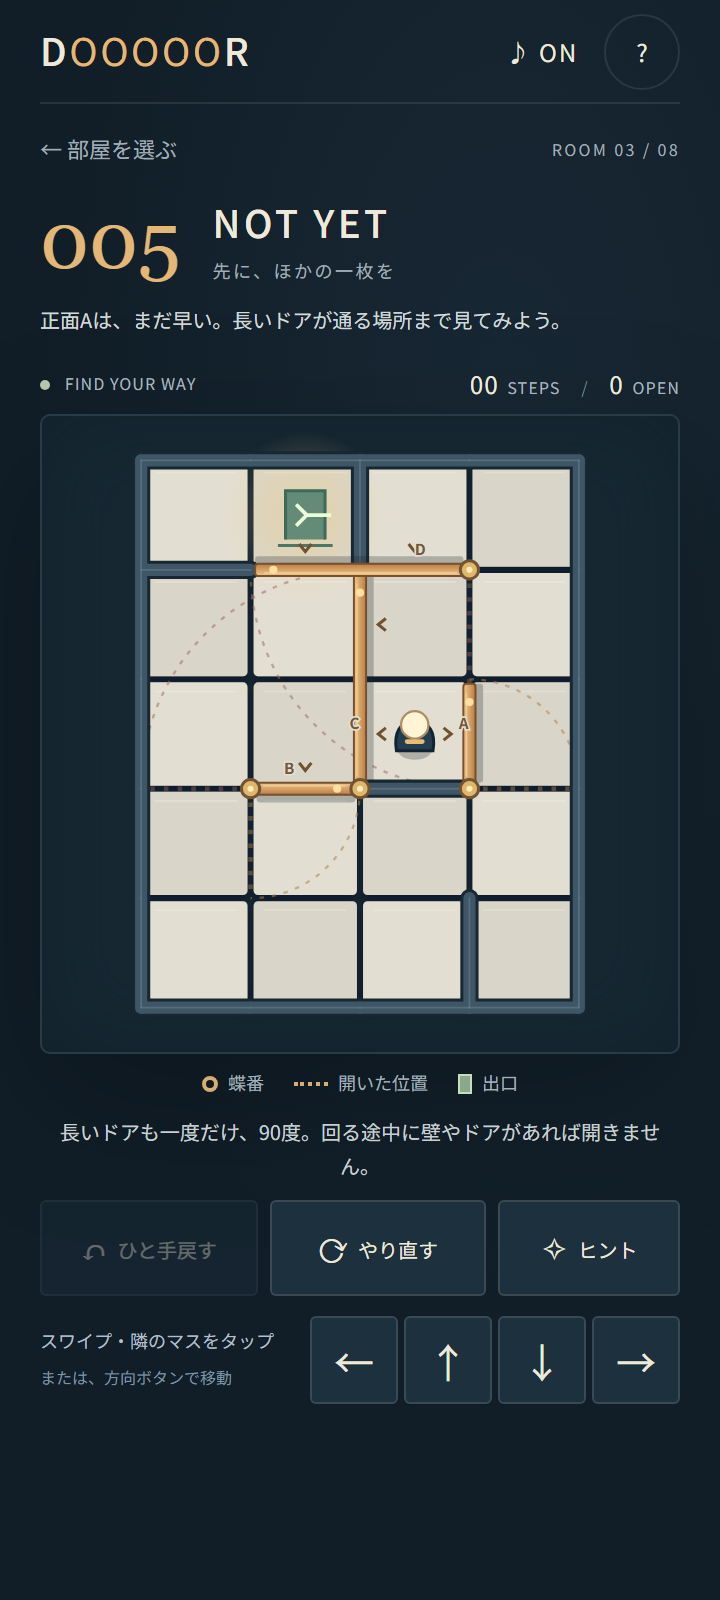
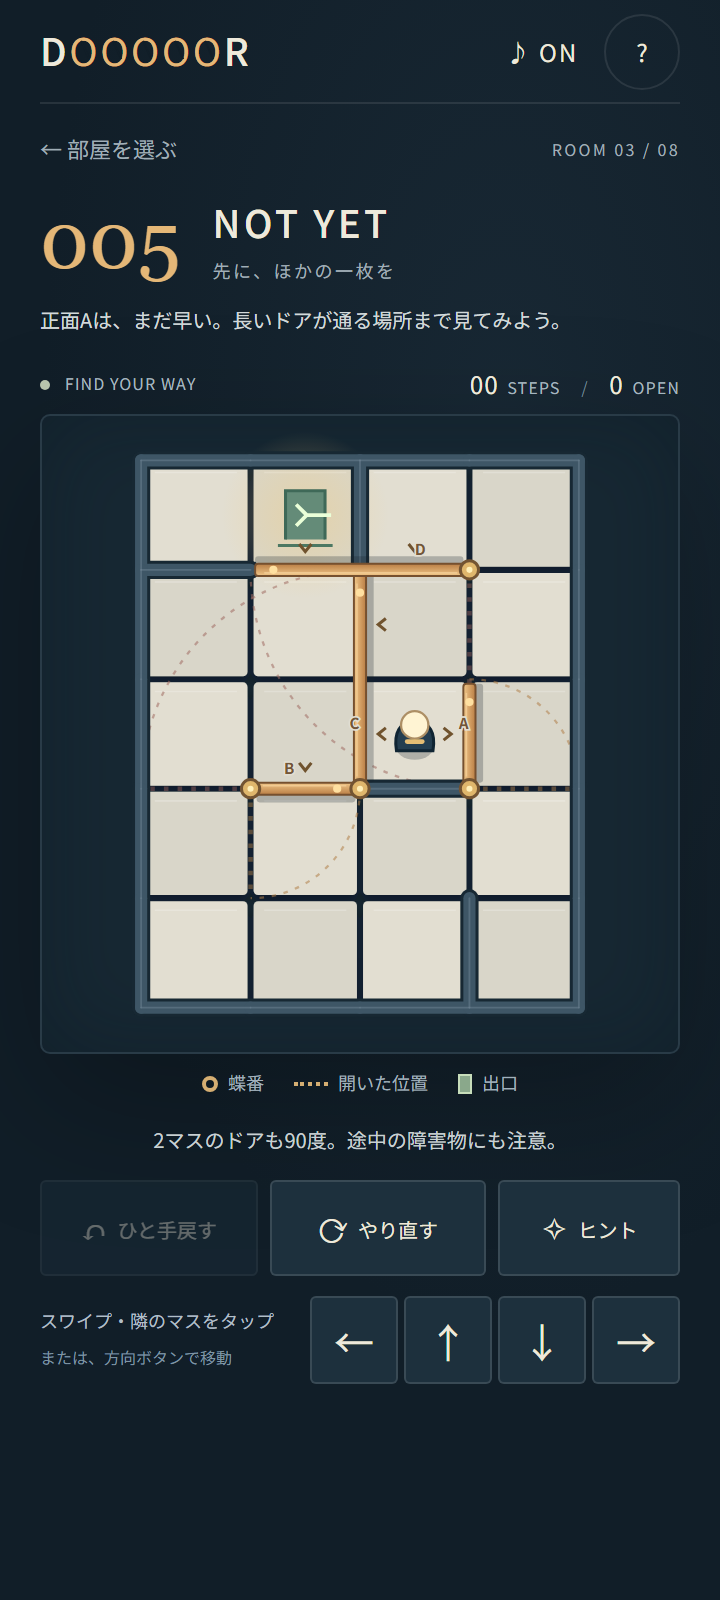
Keep the long-door introduction readable on narrow screens

diff --git a/src/levels.js b/src/levels.js
@@ -69,7 +69,7 @@ export const levels = [
       explanation: '正面Aの右押しは今は罠だが、全解で後から同じA:Rが必須。Bを下へ開け、長いCを左へ動かして戻り、Aを右へ。最後に長いDを下へ開く。',
       delayed: { door: 'A', action: 'R', path: 'R', prior: [] }
     },
-    instruction: '長いドアも一度だけ、90度。回る途中に壁やドアがあれば開きません。'
+    instruction: '2マスのドアも90度。途中の障害物にも注意。'
   },
   {
     id: '009',
